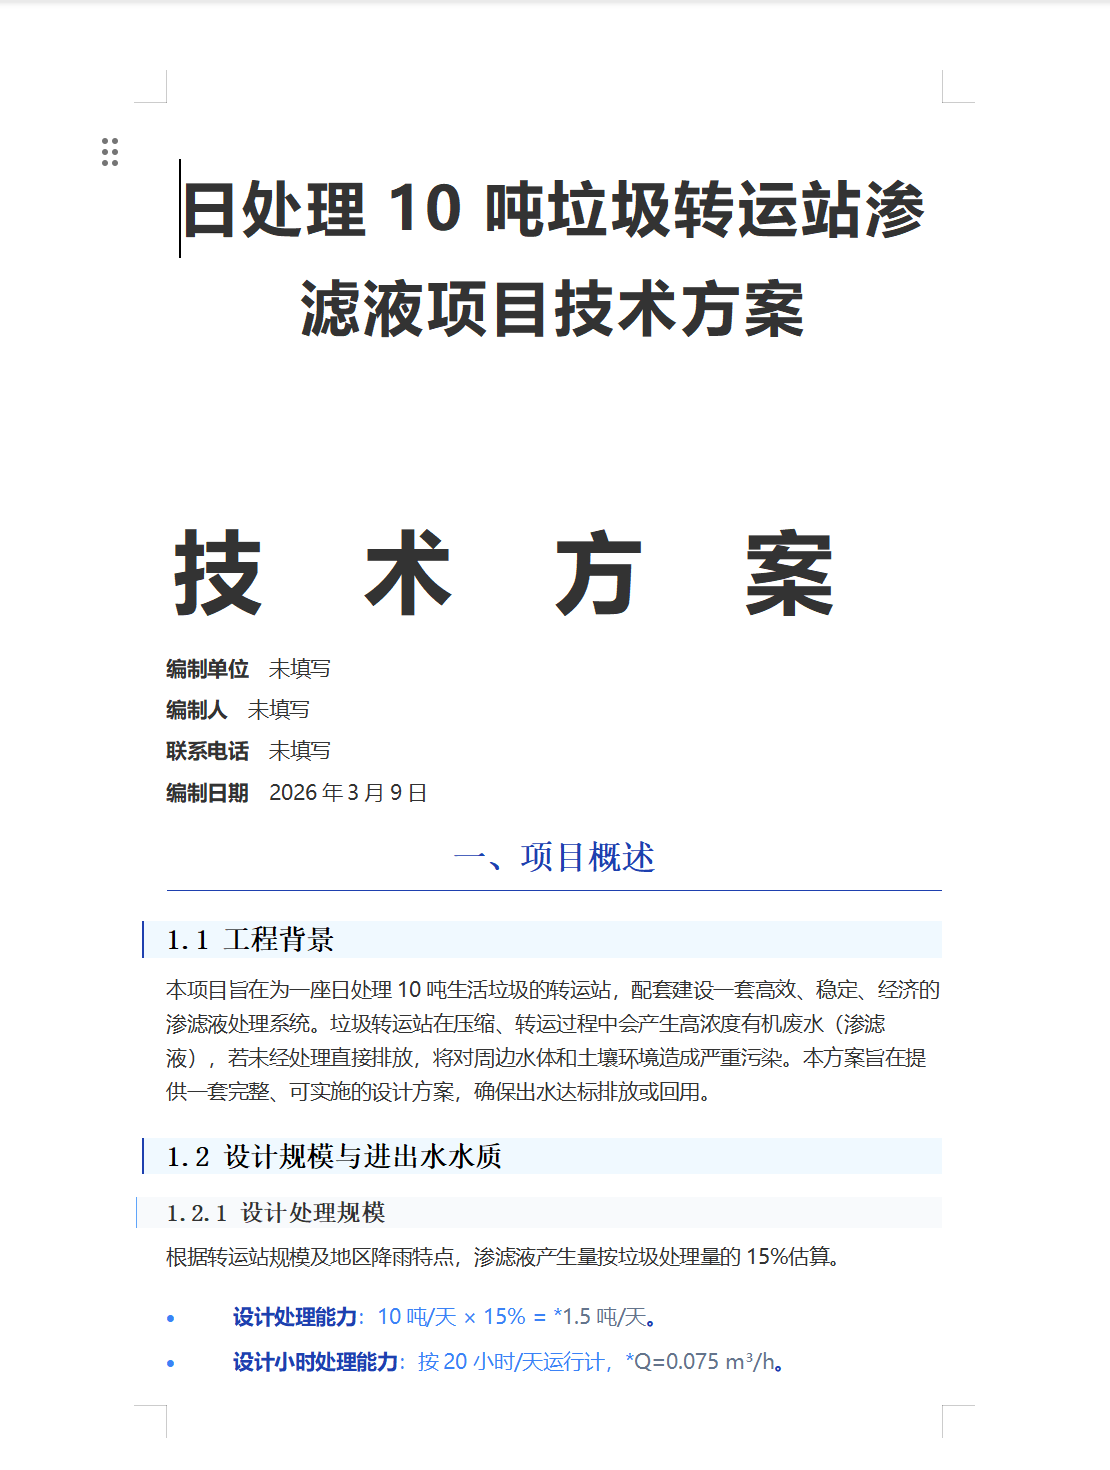
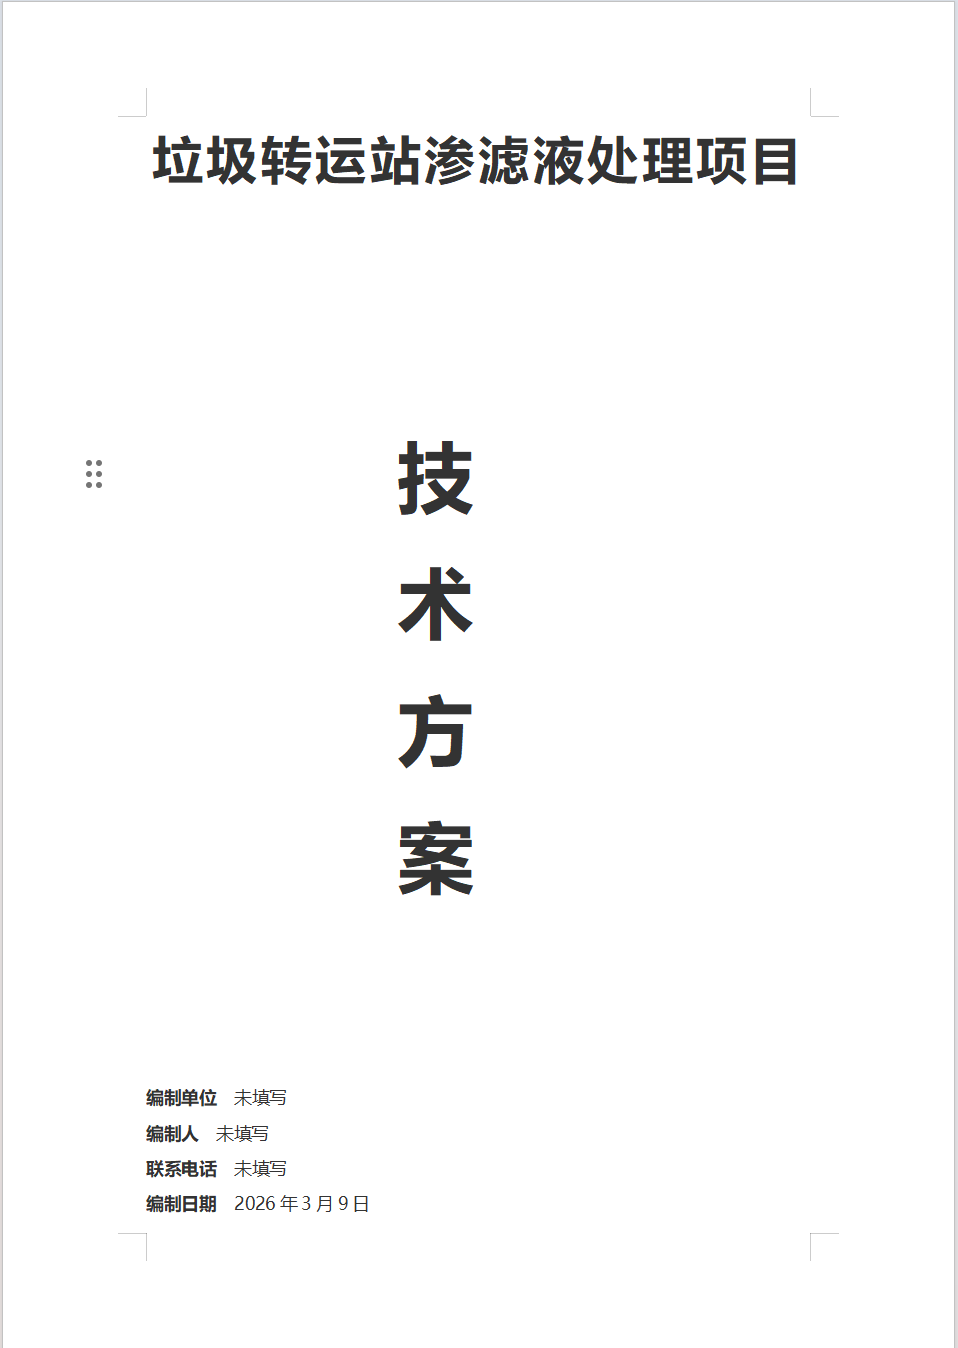
refactor: 优化Word封面排版样式

diff --git a/src/components/chat-message.tsx b/src/components/chat-message.tsx
@@ -1553,6 +1553,9 @@ export default function ChatMessage({
 <body>
   <!-- 封面页 -->
   <div class="cover">
+    <!-- 装饰点 -->
+    <div class="cover-decor-dot">■</div>
+    
     <!-- 封面顶部区域 -->
     <div class="cover-top">
       <div class="cover-title">${projectTitle}</div>
@@ -1739,13 +1742,13 @@ export default function ChatMessage({
       padding: 12px;
     }
     
-    /* 封面样式 - 恢复版 */
+    /* 封面样式 - 优化版 */
     .cover {
       text-align: center;
       padding: 0;
       page-break-after: always;
       background: #ffffff;
-      color: #333333;
+      color: #000000;
       height: 270mm;
       min-height: 270mm;
       max-height: 270mm;
@@ -1756,6 +1759,8 @@ export default function ChatMessage({
       overflow: hidden;
       -webkit-print-color-adjust: exact;
       print-color-adjust: exact;
+      padding: 35mm 22mm 28mm 22mm;
+      box-sizing: border-box;
     }
     
     /* 封面顶部区域 */
@@ -1765,66 +1770,71 @@ export default function ChatMessage({
       flex-direction: column;
       align-items: center;
       justify-content: flex-start;
-      padding-top: 20px;
+      margin-top: 0;
     }
     
     .cover-title {
       font-size: 36px;
-      font-weight: bold;
-      color: #333333;
-      margin-bottom: 4px;
+      font-weight: 700;
+      color: #000000;
+      margin-bottom: 80px;
       letter-spacing: 2px;
+      font-family: "Microsoft YaHei", "SimHei", sans-serif;
     }
     
     /* 竖排方案名称 */
     .cover-vertical-text {
       writing-mode: vertical-rl;
-      text-orientation: mixed;
-      font-size: 48px;
-      color: #333333;
-      letter-spacing: 12px;
-      height: auto;
-      margin: 200px auto 0;
-      font-weight: bold;
-      line-height: 1.5;
+      text-orientation: upright;
+      font-size: 56px;
+      color: #000000;
+      letter-spacing: 8px;
+      height: 320px;
+      margin: 0 auto;
+      font-weight: 800;
+      line-height: 1;
+      font-family: "Microsoft YaHei", "SimHei", sans-serif;
     }
     
-    .cover-divider {
-      width: 100px;
-      height: 2px;
-      background: #3b82f6;
-      margin: 15px auto 0;
+    /* 装饰点 */
+    .cover-decor-dot {
+      position: absolute;
+      left: 22mm;
+      top: 50%;
+      transform: translateY(-50%);
+      color: #666666;
+      font-size: 14px;
+      font-weight: bold;
     }
     
     /* 封面底部区域 */
     .cover-bottom {
-      padding: 5px 80px 20px 80px;
-      text-align: left;
       position: absolute;
-      bottom: 85px;
-      left: 0;
-      right: 0;
+      left: 22mm;
+      bottom: 28mm;
+      text-align: left;
     }
     
     .cover-info {
       font-size: 12px;
       color: #333333;
-      line-height: 1.6;
+      line-height: 1.8;
       text-align: left;
+      font-family: "Microsoft YaHei", "SimHei", sans-serif;
     }
     
     .cover-info p {
       text-indent: 0;
-      margin: 2px 0;
+      margin: 0;
       color: #333333;
     }
     
     .cover-info strong {
-      color: #333333;
+      color: #000000;
       font-weight: 600;
       display: inline-block;
       min-width: 80px;
-      letter-spacing: 1px;
+      margin-right: 8px;
     }
     
     /* 页眉 */
